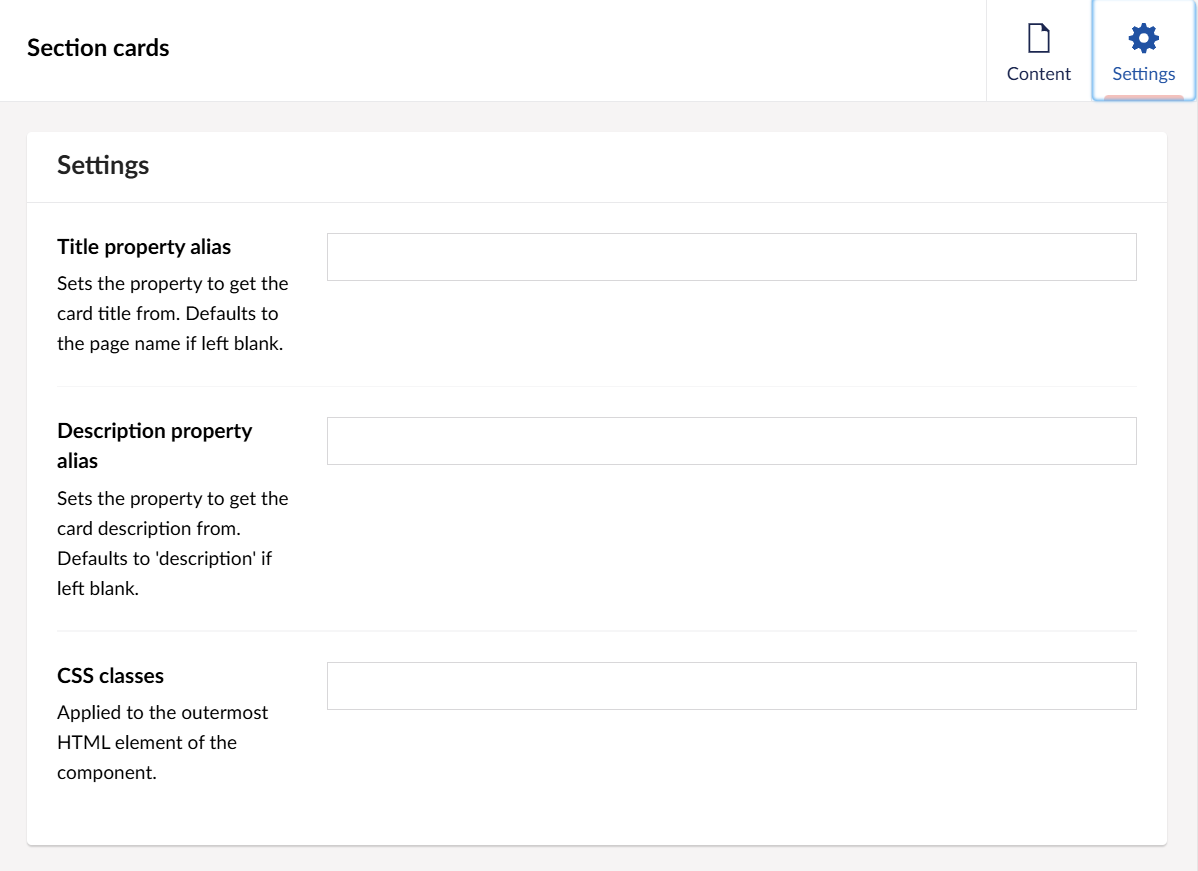
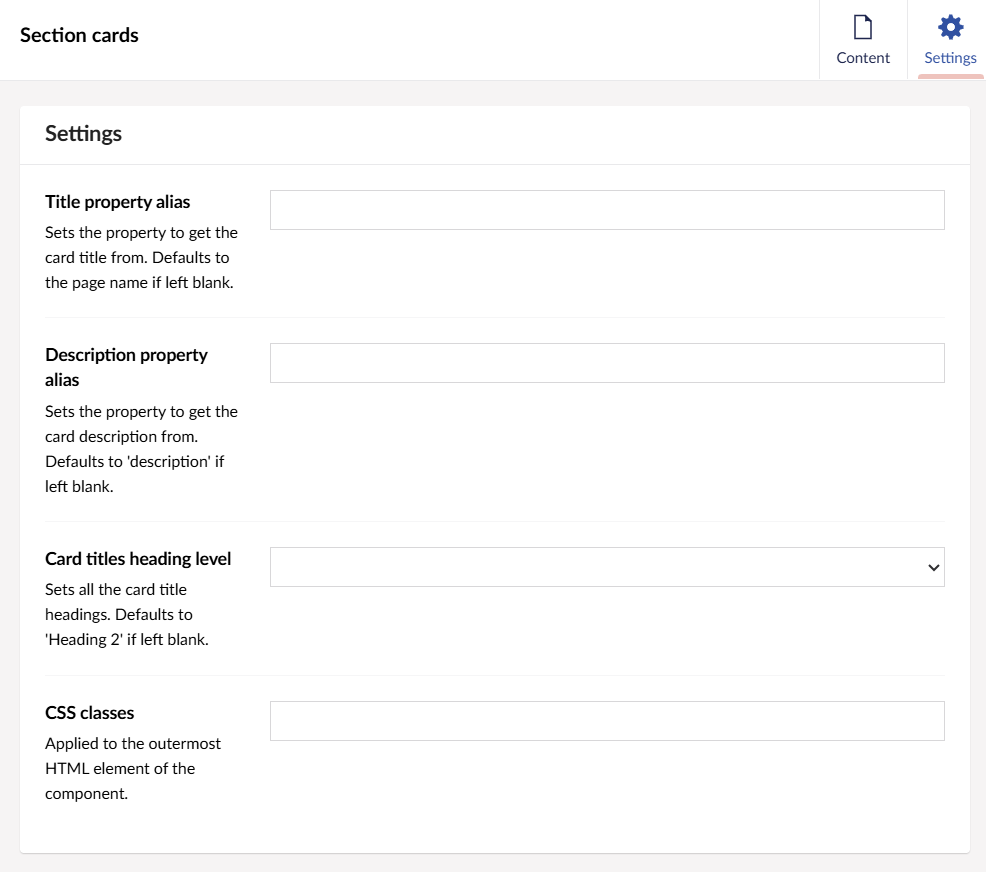
Bumped version to 8.8.6
Added the ability to override the section card title headings level so it can be set from a h1 to a h6 so that a page can follow the correct structure for semantic design.

Updated example and documentation for the new feature.

diff --git a/ThePensionsRegulator.Frontend/TagHelpers/TprSectionCardsTagHelper.cs b/ThePensionsRegulator.Frontend/TagHelpers/TprSectionCardsTagHelper.cs
@@ -2,6 +2,7 @@
 using GovUk.Frontend.AspNetCore.Extensions;
 using Microsoft.AspNetCore.Mvc.TagHelpers;
 using Microsoft.AspNetCore.Razor.TagHelpers;
+using System;
 using System.Linq;
 using System.Threading.Tasks;
 using ThePensionsRegulator.Frontend.HtmlGeneration;
@@ -28,6 +29,32 @@ namespace ThePensionsRegulator.Frontend.TagHelpers
             get => _newTabText;
             set => _newTabText = value;
         }
+
+        private int _sectionCardsTitleHeadingLevel = 2;
+        /// <summary>
+        /// The heading level for each card title.
+        /// </summary>
+        /// <remarks>
+        /// Must be between <c>1</c> and <c>6</c> (inclusive). The default is <c>2</c>.
+        /// </remarks>
+        [HtmlAttributeName("card-titles-heading-level")]
+        public int HeadingLevel
+        {
+            get => _sectionCardsTitleHeadingLevel;
+            set
+            {
+                if (value < ComponentGenerator.SectionCardTitlesMinHeadingLevel ||
+                    value > ComponentGenerator.SectionCardTitlesMaxHeadingLevel)
+                {
+                    throw new ArgumentOutOfRangeException(
+                        nameof(value),
+                        $"{nameof(HeadingLevel)} must be between {ComponentGenerator.SectionCardTitlesMinHeadingLevel} and {ComponentGenerator.SectionCardTitlesMaxHeadingLevel}.");
+                }
+
+                _sectionCardsTitleHeadingLevel = value;
+            }
+        }
+
         public TprSectionCardsTagHelper()
           : this(htmlGenerator: null)
         {
@@ -37,6 +64,7 @@ namespace ThePensionsRegulator.Frontend.TagHelpers
         {
             _htmlGenerator = htmlGenerator ?? new ComponentGenerator();
         }
+
         public override async Task ProcessAsync(TagHelperContext context, TagHelperOutput output)
         {
             var cardsContext = new TprSectionCardsContext();
@@ -64,7 +92,7 @@ namespace ThePensionsRegulator.Frontend.TagHelpers
                 NewTabText = NewTabText
             };
 
-            var tagBuilder = _htmlGenerator.GenerateTprSectionCards(sectionCards);
+            var tagBuilder = _htmlGenerator.GenerateTprSectionCards(_sectionCardsTitleHeadingLevel, sectionCards);
 
             output.TagName = tagBuilder.TagName;
             output.TagMode = TagMode.StartTagAndEndTag;

diff --git a/ThePensionsRegulator.Frontend/HtmlGeneration/ComponentGenerator.TprSectionCards.cs b/ThePensionsRegulator.Frontend/HtmlGeneration/ComponentGenerator.TprSectionCards.cs
@@ -1,12 +1,15 @@
-using System.Globalization;
-using GovUk.Frontend.AspNetCore;
+using GovUk.Frontend.AspNetCore;
 using Microsoft.AspNetCore.Mvc.Rendering;
+using System.Globalization;
 
 namespace ThePensionsRegulator.Frontend.HtmlGeneration
 {
     public partial class ComponentGenerator
     {
-        public virtual TagBuilder GenerateTprSectionCards(TprSectionCards tprSectionCards)
+        public const int SectionCardTitlesMinHeadingLevel = 1;
+        public const int SectionCardTitlesMaxHeadingLevel = 6;
+
+        public virtual TagBuilder GenerateTprSectionCards(int sectionCardsTitleHeadingLevel, TprSectionCards tprSectionCards)
         {
             var nav = new TagBuilder("nav");
             if (tprSectionCards.Attributes != null) { nav.MergeAttributes(tprSectionCards.Attributes); }
@@ -28,7 +31,7 @@ namespace ThePensionsRegulator.Frontend.HtmlGeneration
 
                 if (card.Title is not null && !string.IsNullOrWhiteSpace(card.Title.ToHtmlString()))
                 {
-                    var tprSectionCardTitle = new TagBuilder("h2");
+                    var tprSectionCardTitle = new TagBuilder($"h{sectionCardsTitleHeadingLevel}");
                     if (card.TitleAttributes != null) { tprSectionCardTitle.MergeAttributes(card.TitleAttributes); }
                     tprSectionCardTitle.MergeCssClass("tpr-section-card__title");
 

diff --git a/ThePensionsRegulator.Frontend/ITprHtmlGenerator.cs b/ThePensionsRegulator.Frontend/ITprHtmlGenerator.cs
@@ -3,7 +3,6 @@ using Microsoft.AspNetCore.Mvc.Rendering;
 using Microsoft.AspNetCore.Mvc.ViewFeatures;
 using System.Collections.Generic;
 using ThePensionsRegulator.Frontend.HtmlGeneration;
-using ThePensionsRegulator.Frontend.TagHelpers;
 
 namespace ThePensionsRegulator.Frontend
 {
@@ -15,7 +14,7 @@ namespace ThePensionsRegulator.Frontend
         TagBuilder GenerateTprFooterBar(TprFooterBar tprFooterBar);
         TagBuilder GenerateTprContextBar(TprContextBar tprContextBar);
         TagBuilder GenerateTprRelatedLinks(TprRelatedLinks tprRelatedLinks);
-        TagBuilder GenerateTprSectionCards(TprSectionCards tprSectionCards);
+        TagBuilder GenerateTprSectionCards(int sectionCardsTitleHeadingLevel, TprSectionCards tprSectionCards);
         TagBuilder GenerateTprAblePlayer(TprYouTubeVideo video);
         TagBuilder GenerateTprYouTubeNoCookiesEmbeddedPlayer(TprYouTubeVideo video);
         TagBuilder GenerateTprTimeline(AttributeDictionary? attributes, IEnumerable<TprTimelineItem> items, bool hideTail, int headingLevel, string ariaTitle);

diff --git a/GovUk.Frontend.Umbraco.ExampleApp/Models/ModelsBuilder/TprSectionCardsSettings.generated.cs b/GovUk.Frontend.Umbraco.ExampleApp/Models/ModelsBuilder/TprSectionCardsSettings.generated.cs
@@ -50,6 +50,14 @@ namespace Umbraco.Cms.Web.Common.PublishedModels
 		// properties
 
 		///<summary>
+		/// Card titles heading level: Sets all the card title headings. Defaults to 'Heading 2' if left blank.
+		///</summary>
+		[global::System.CodeDom.Compiler.GeneratedCodeAttribute("Umbraco.ModelsBuilder.Embedded", "13.9.2+b414456")]
+		[global::System.Diagnostics.CodeAnalysis.MaybeNull]
+		[ImplementPropertyType("cardTitlesHeadingLevel")]
+		public virtual string CardTitlesHeadingLevel => this.Value<string>(_publishedValueFallback, "cardTitlesHeadingLevel");
+
+		///<summary>
 		/// Description property alias: Sets the property to get the card description from. Defaults to 'description' if left blank.
 		///</summary>
 		[global::System.CodeDom.Compiler.GeneratedCodeAttribute("Umbraco.ModelsBuilder.Embedded", "13.9.2+b414456")]

diff --git a/ThePensionsRegulator.Frontend.Umbraco/TprPropertyAliases.cs b/ThePensionsRegulator.Frontend.Umbraco/TprPropertyAliases.cs
@@ -24,6 +24,7 @@
         public const string SearchResultsHeadingClass = "headingClass";
         public const string SearchResultsHeadingLevel = "headingLevel";
         public const string SectionCards = "cards";
+        public const string SectionCardsTitleHeadingLevel = "cardTitlesHeadingLevel";
         public const string SectionCardLink = "link";
         public const string SectionCardNameProperty = "titleFieldName";
         public const string SectionCardDescriptionProperty = "descriptionFieldName";

diff --git a/ThePensionsRegulator.Frontend/HtmlGeneration/ComponentGenerator.TprSearchResultsInput.cs b/ThePensionsRegulator.Frontend/HtmlGeneration/ComponentGenerator.TprSearchResultsInput.cs
@@ -9,7 +9,6 @@ namespace ThePensionsRegulator.Frontend.HtmlGeneration
         public const int SearchResultsMinHeadingLevel = 2;
         public const int SearchResultsMaxHeadingLevel = 6;
 
-        //public const string[] 
         public static string[] AllHeadingClasses = ["govuk-heading-xl", "govuk-heading-l", "govuk-heading-m", "govuk-heading-s"];
 
         public TagBuilder GenerateTprSearchResultsInput(int headingLevel, string headingClass, string? searchLabel = null)

diff --git a/docs/components/tpr-section-cards.md b/docs/components/tpr-section-cards.md
@@ -7,7 +7,7 @@ In TPR pages you can add cards that can display a linked heading and description
 ```razor
 @addTagHelper *, ThePensionsRegulator.Frontend
 
-<tpr-section-cards new-tab-text="(opens in a new tab)">
+<tpr-section-cards new-tab-text="(opens in a new tab)" card-titles-heading-level="3" class="custom-class">
     <tpr-section-card>
             <tpr-section-card-title href="/example" target="_self">Title of card</tpr-section-card-title>
             <tpr-section-card-content>Description of card</tpr-section-card-content>
@@ -19,11 +19,10 @@ In TPR pages you can add cards that can display a linked heading and description
 
 ### `<tpr-section-cards>`
 
-_Required_
-
-| Attribute    | Type     | Description                                                                                                                                                                       |
-| ------------ | -------- | --------------------------------------------------------------------------------------------------------------------------------------------------------------------------------- |
-| `new-tab-text`       | `string` | For title links that open in a new tab, this text will be appended to the end of title link to inform users that a new tab will open when the link is clicked. e.g. '(opens in a new tab)'                                                                                                                                                  |
+| Attribute    | Type     | Required | Description                                                                                                                                                           |
+| ------------ | -------- | ---------|------------------------------------------------------------------------------------------------------------------------------------------------------------------- |
+| `new-tab-text`        | `string` | `True` | For title links that open in a new tab, this text will be appended to the end of title link to inform users that a new tab will open when the link is clicked. e.g. '(opens in a new tab)'                                                                                                                                                  |
+| `card-titles-heading-level` | `string` | `False`   | Sets the heading level for all the card titles. Default is `2`.
 
 ### `<tpr-section-card>`
 
@@ -78,6 +77,7 @@ The section cards block has the following properties for configuration:
 
 - **Title field name** - is the alias of the property that contains the title for child items. This defaults to the node name.
 - **Description field name** - is the alias of the property that contains the description for child items. This defaults to `description`.
+- **Card titles heading level** - Sets the heading level for all the card titles. Default is `2`.
 - **CSS classes** - Classes to add to the outermost `nav` element.
 
 ![Click the cog icon to get to the settings of the Section cards block](/docs/images/tpr-section-cards-settings-cog.png)
